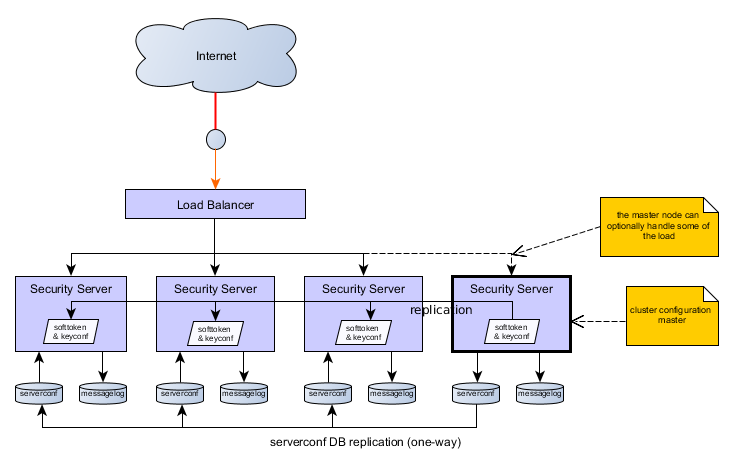
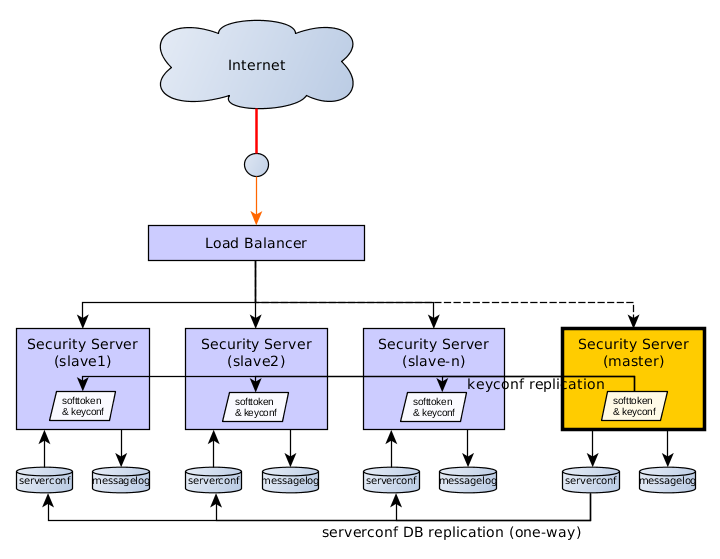
PVAYLADEV-698: Clarify documentation
Change references to "master" certificates to "ca" certificates. Update
state replication image.

Changed region(s): [[0.0, 0.03, 1.0, 0.9614]]

diff --git a/doc/Manuals/LoadBalancing/ig-xlb_x-road_external_load_balancer_installation_guide.md b/doc/Manuals/LoadBalancing/ig-xlb_x-road_external_load_balancer_installation_guide.md
@@ -1,6 +1,6 @@
 # X-Road: External Load Balancer Installation Guide
 
-Version: 1.0  
+Version: 1.0
 Doc. ID: IG-XLB
 
 
@@ -121,7 +121,7 @@ __Consequences of the selected implementation model:__
 * If the master node fails or communication is interrupted during a configuration update, each slave should have a valid
   configuration, but the cluster state can be inconsistent (some members might have the old configuration while some might
   have received all the changes).
-  
+
 ### 2.2 Communication with external servers and services: The cluster from the point of view of a client or service
 
 When external security servers communicate with the cluster, they see only the public IP address of the cluster which is
@@ -357,9 +357,9 @@ For further details on the certificate authentication, see the
 1. Generate the Certificate Authority key and a self-signed certificate for the root-of-trust:
 
    ```
-   openssl req -new -x509 -days 7300 -nodes -sha256 -out master.crt -keyout master.key -subj '/O=cluster/CN=master'
+   openssl req -new -x509 -days 7300 -nodes -sha256 -out ca.crt -keyout ca.key -subj '/O=cluster/CN=CA'
    ```
-   The subject name does not really matter here. Remember to keep the `master.key` file in a safe place.
+   The subject name does not really matter here. Remember to keep the `ca.key` file in a safe place.
 
 2. Generate keys and certificates signed by the CA for each postgresql instance, including the master. Do not use the CA
    certificate and key as the database certificate and key.
@@ -371,10 +371,10 @@ For further details on the certificate authentication, see the
    **Note:** The `<nodename>` must match a replication user name; otherwise the subject name does not matter
 
    ```
-   openssl x509 -req -in server.csr -CAcreateserial -CA master.crt -CAkey master.key -days 7300 -out server.crt
+   openssl x509 -req -in server.csr -CAcreateserial -CA ca.crt -CAkey ca.key -days 7300 -out server.crt
    ```
 
-3. Copy the certificates to `/etc/xroad/postgresql` on each cluster instance:
+3. Copy the certificates (ca.crt, and the instance's server.crt and server.key) to `/etc/xroad/postgresql` on each cluster instance:
 
    ```bash
    sudo mkdir -p -m 0755 /etc/xroad/postgresql
@@ -383,8 +383,8 @@ For further details on the certificate authentication, see the
    Copy the certificates, then copy one server key per instance so that each instance has a unique key:
 
    ```bash
-   sudo chown postgres /etc/xroad/postgresql/server.key
-   sudo chmod 400 /etc/xroad/postgresql/server.key
+   sudo chown postgres /etc/xroad/postgresql/*
+   sudo chmod 400 /etc/xroad/postgresql/*
    ```
 
 > Alternatively, an existing internal CA can be used for managing the certificates. A sub-CA should be created as the
@@ -432,13 +432,13 @@ Edit `postgresql.conf` and set the following options:
 
 ```
 ssl = on
-ssl_ca_file   = '/etc/xroad/postgresql/master.crt'
+ssl_ca_file   = '/etc/xroad/postgresql/ca.crt'
 ssl_cert_file = '/etc/xroad/postgresql/server.crt'
 ssl_key_file  = '/etc/xroad/postgresql/server.key'
 
 listen_addresses = *    # (default is localhost. Alternatively: localhost, <IP of the interface the slaves connect to>")
 wal_level = hot_standby
-max_wal_senders   = 3   # should be ~ number of slaves plus some small number. Here, we assume there two slaves.
+max_wal_senders   = 3   # should be ~ number of slaves plus some small number. Here, we assume there are two slaves.
 wal_keep_segments = 8   # keep some wal segments so that slaves that are offline can catch up.
 ```
 
@@ -474,7 +474,7 @@ systemctl start postgresql-serverconf
 Create the replication user(s) with password authentication disabled:
 ```bash
 sudo -u postgres psql -p 5433 -c "CREATE ROLE slavenode NOLOGIN";
-sudo -u postgres psql -p 5433 -c "CREATE USER <nodename> REPLICATION PASSWORD NULL IN ROLE slavenode";
+sudo -u postgres psql -p 5433 -c "CREATE USER "<nodename>" REPLICATION PASSWORD NULL IN ROLE slavenode";
 ```
 
 Create a user named `serverconf` for local `serverconf` database access:
@@ -515,13 +515,13 @@ Clear the data directory:
 
 Do a base backup with `pg_basebackup`:
 ```bash
-sudo -u postgres PGSSLMODE=verify-ca PGSSLROOTCERT=/etc/xroad/postgresql/master.crt PGSSLCERT=/etc/xroad/postgresql/server.crt PGSSLKEY=/etc/xroad/postgresql/server.key pg_basebackup -h <master> -p 5433 -U <nodename> -D .
+sudo -u postgres PGSSLMODE=verify-ca PGSSLROOTCERT=/etc/xroad/postgresql/ca.crt PGSSLCERT=/etc/xroad/postgresql/server.crt PGSSLKEY=/etc/xroad/postgresql/server.key pg_basebackup -h <master> -p 5433 -U <nodename> -D .
 ```
 Add the following `recovery.conf` to the data directory:
 
 ```
 standby_mode = 'on'
-primary_conninfo = 'host=<master> port=5433 user=<nodename> sslmode=verify-ca sslcert=/etc/xroad/postgresql/server.crt sslkey=/etc/xroad/postgresql/server.key sslrootcert=/etc/xroad/postgresql/master.crt'
+primary_conninfo = 'host=<master> port=5433 user=<nodename> sslmode=verify-ca sslcert=/etc/xroad/postgresql/server.crt sslkey=/etc/xroad/postgresql/server.key sslrootcert=/etc/xroad/postgresql/ca.crt'
 trigger_file = '/var/lib/xroad/postgresql.trigger'
 ```
 Set owner of the `recovery.conf` to `postgres:postgres`, mode `0600`
@@ -530,7 +530,7 @@ Modify `postgresql.conf`:
 
 ```
 ssl = on
-ssl_ca_file   = '/etc/xroad/postgresql/master.crt'
+ssl_ca_file   = '/etc/xroad/postgresql/ca.crt'
 ssl_cert_file = '/etc/xroad/postgresql/server.crt'
 ssl_key_file  = '/etc/xroad/postgresql/server.key'
 
